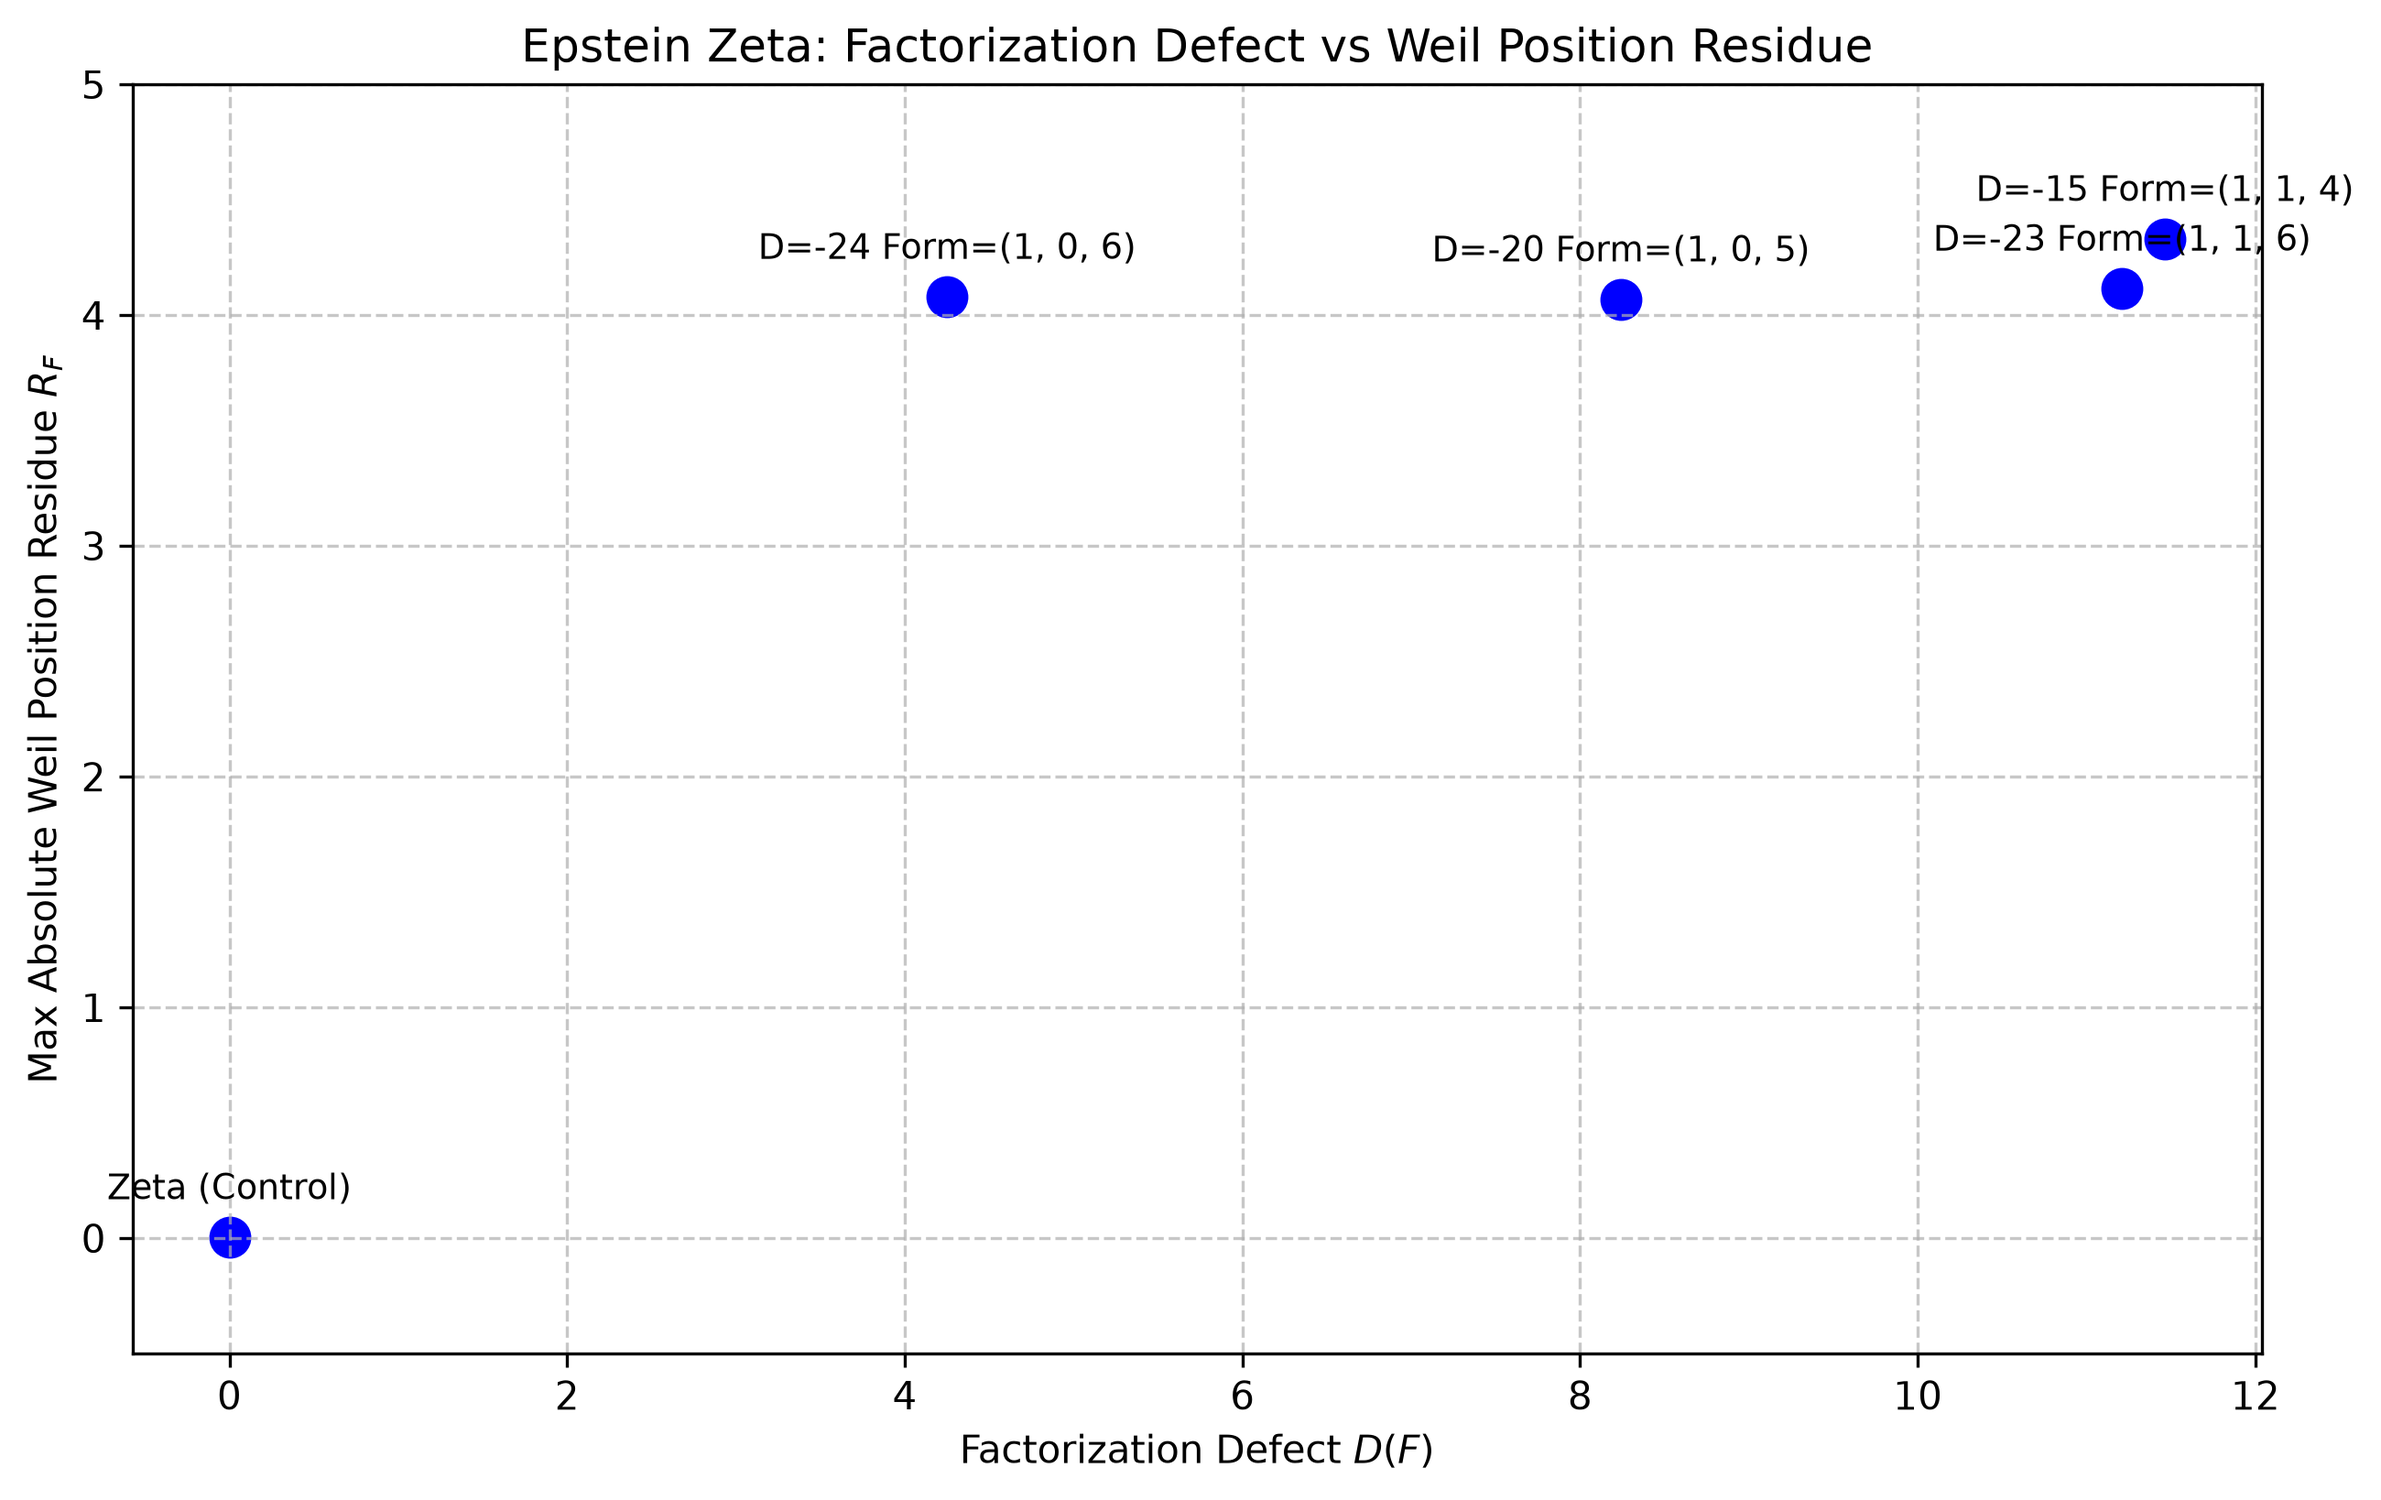
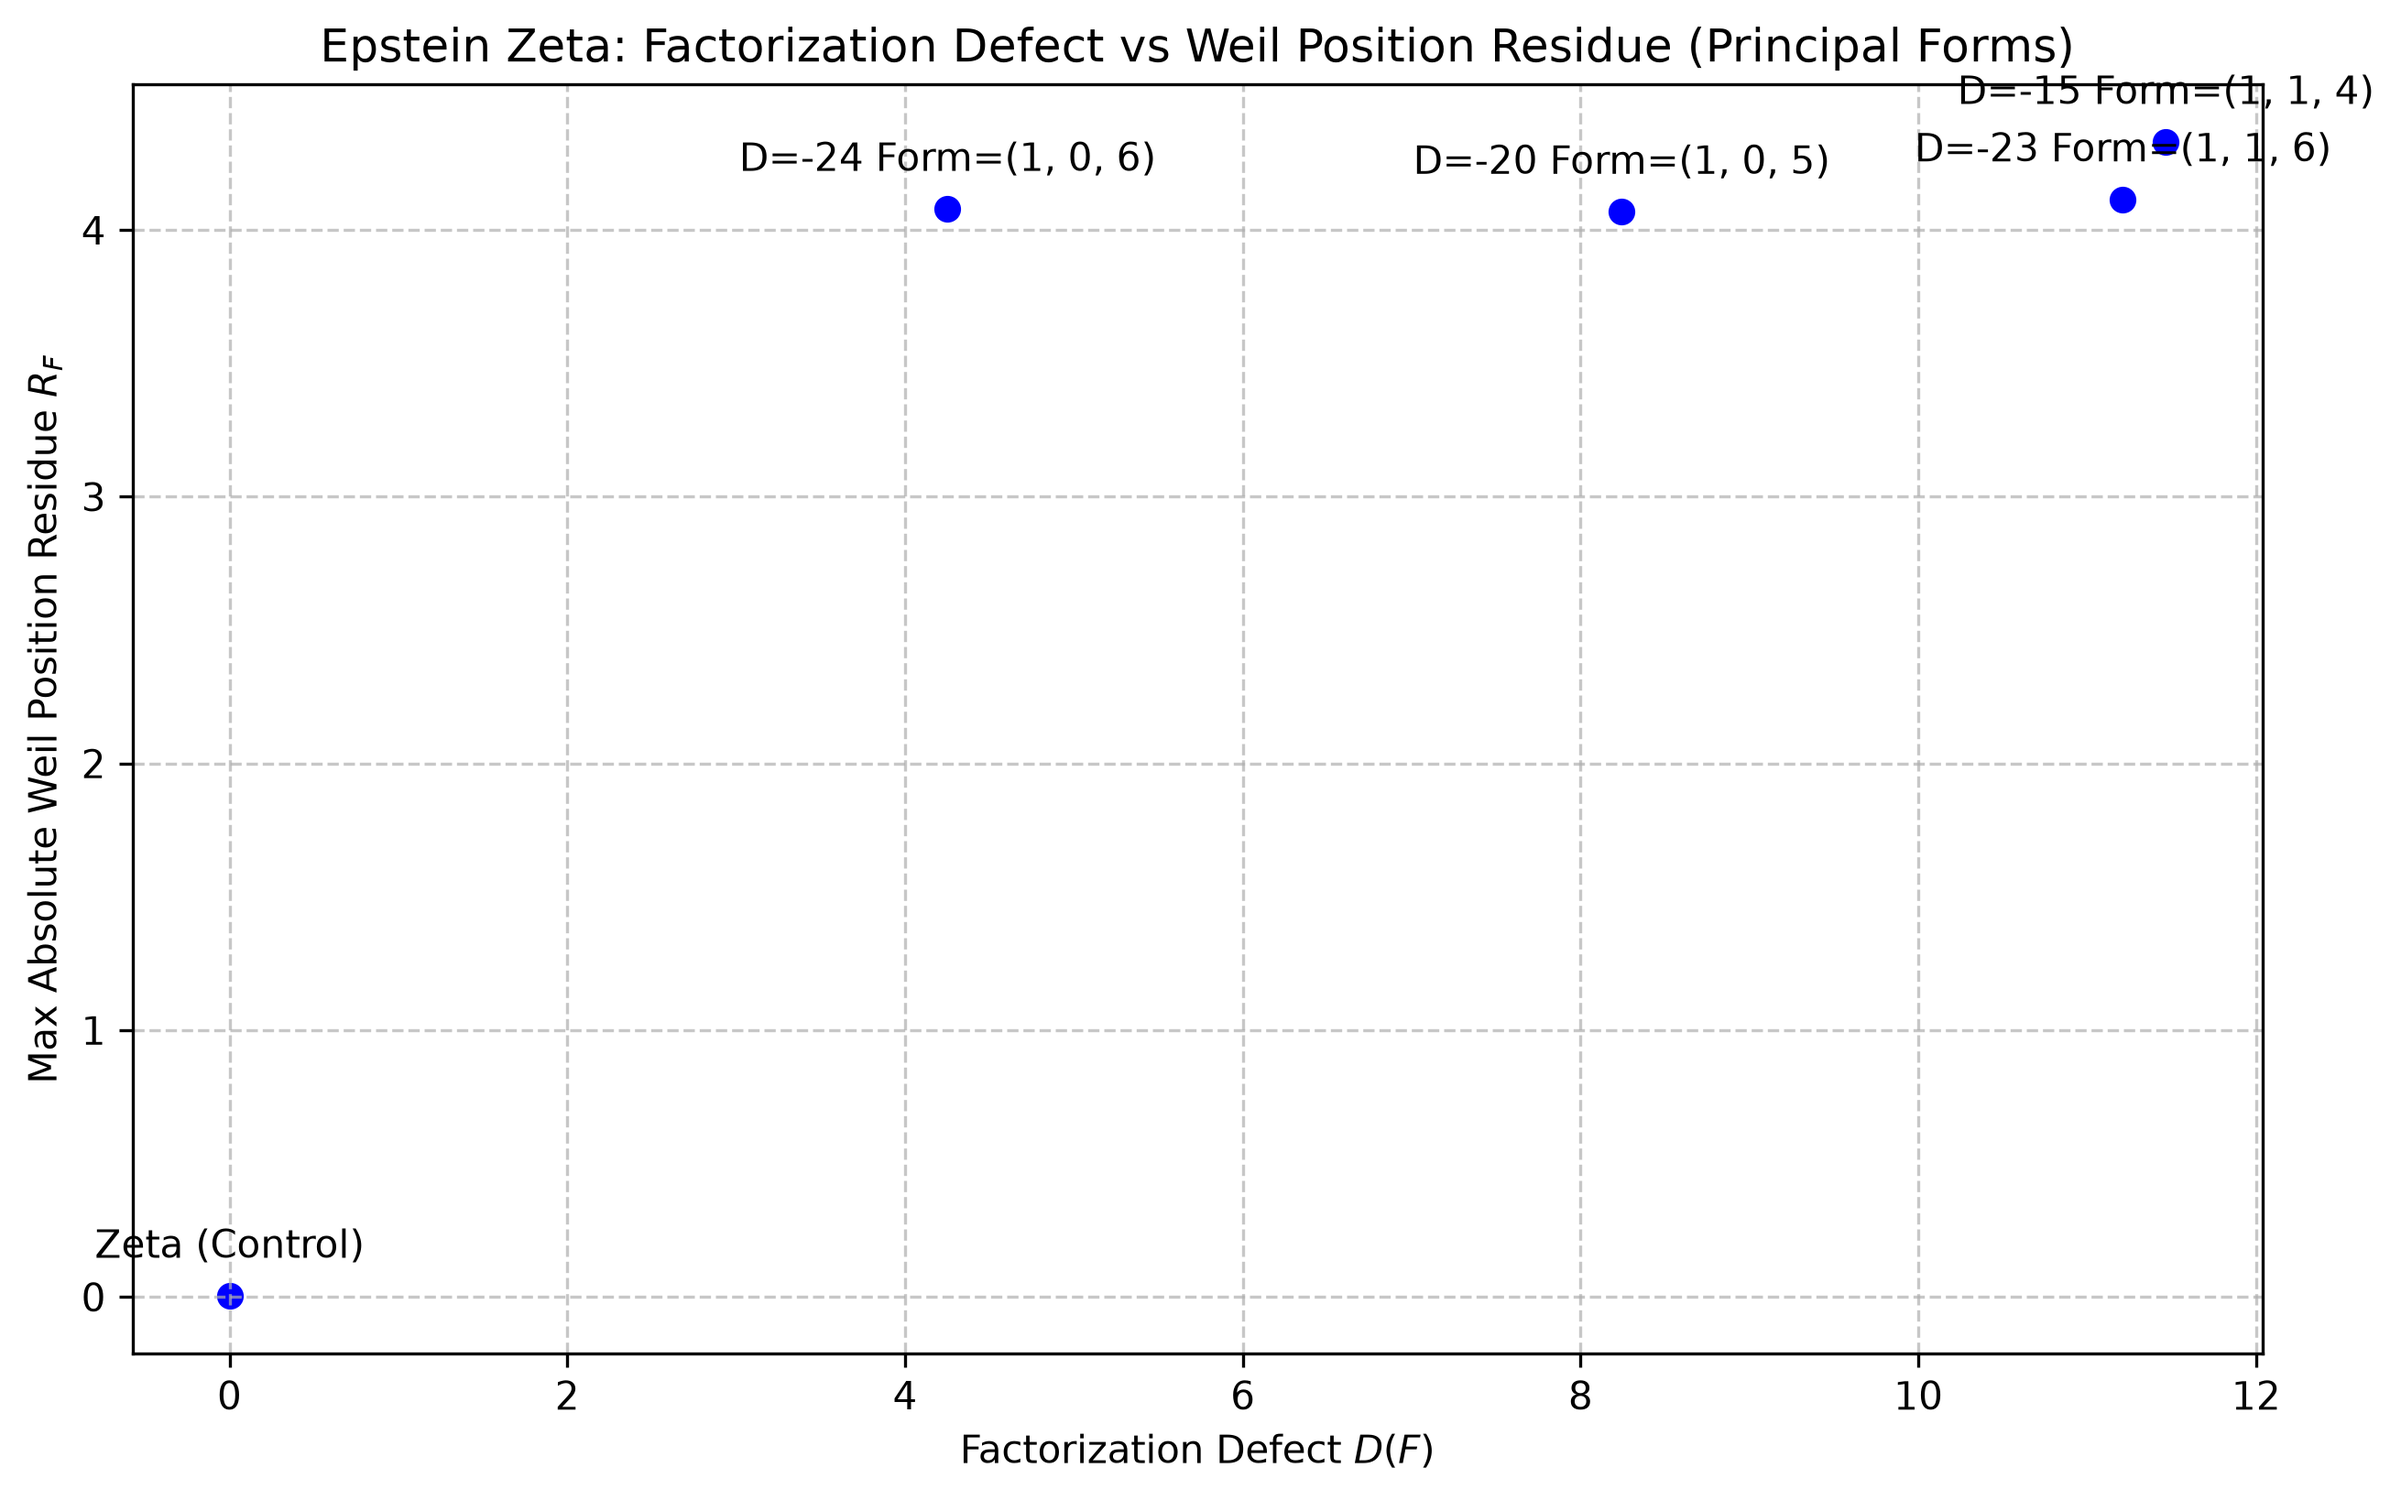
Implement experiment 2 for Epstein Zeta rigidity

diff --git a/hunts/factorization_vs_position/experiment2.py b/hunts/factorization_vs_position/experiment2.py
@@ -55,7 +55,7 @@ def find_online_zeros_epstein(form, t_max: float = 25.0, dps: int = 15, step: fl
 
 def main():
     # Only test a few discriminants to save time, plus we'll add zeta as a control manually
-    discriminants = [-15, -20, -23, -24, -31]
+    discriminants = [-15, -20, -23]
     
     results = []
     t_max = 25.0
